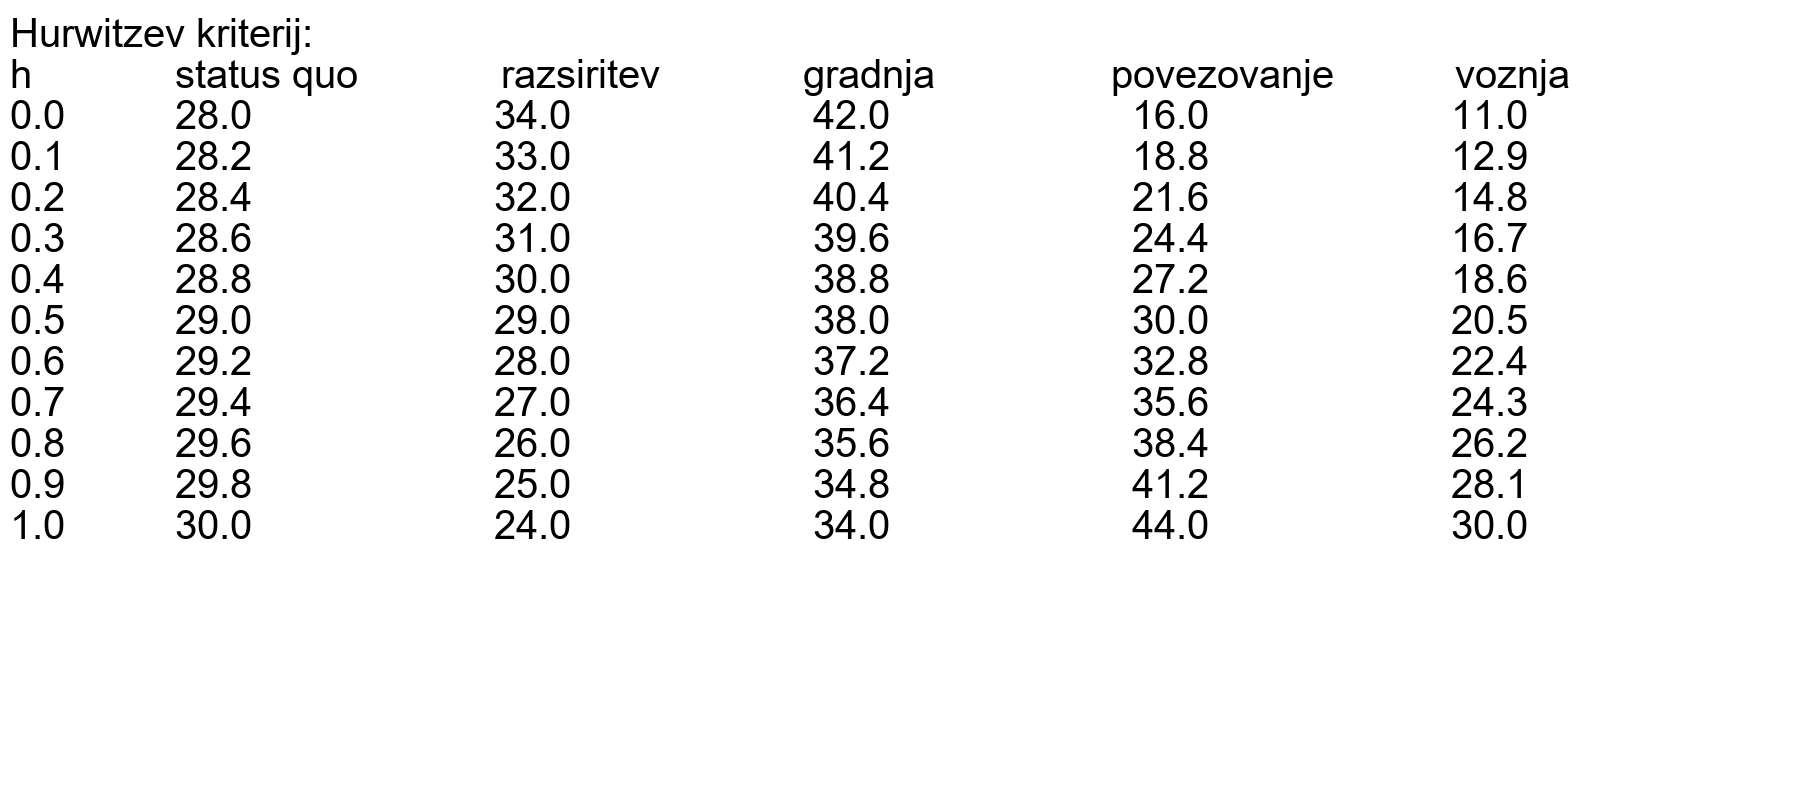
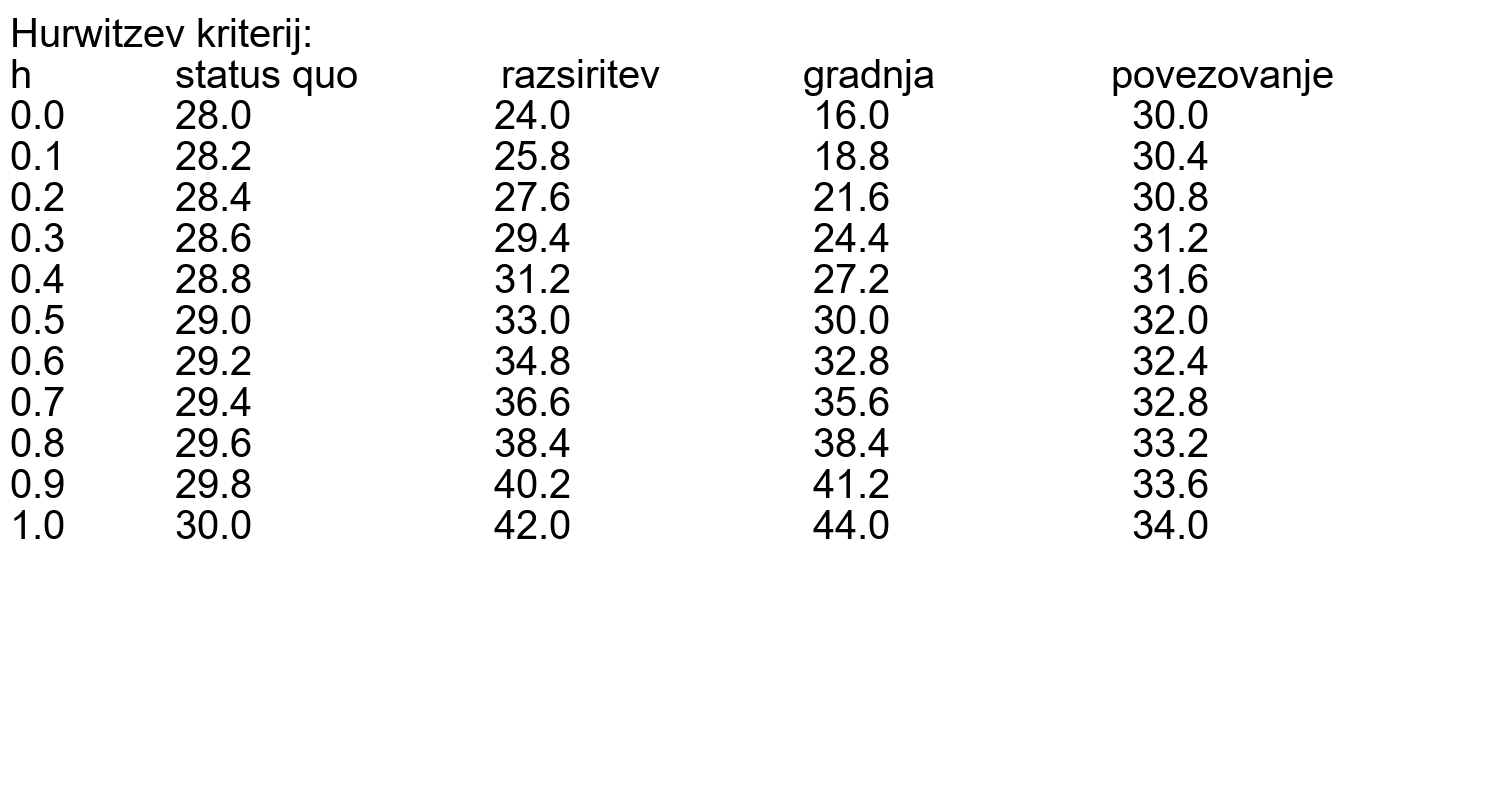
update

Changed region(s): [[0.276, 0.0625, 0.8893, 0.6875], [0.0, 0.0312, 0.2453, 0.6875]]

diff --git a/Main.py b/Main.py
@@ -12,7 +12,6 @@ def main():
     Negativ =[]
     PNGFile = "graf.png"
     PNGData = ""
-
     #Main
     IniFilePath = GetConfig()
     FilePath = GetFile(IniFilePath)
@@ -22,7 +21,6 @@ def main():
     CreatePNGAndSave(PNGFile, PNGData,len(Header))
     Output(FilePath,Header,Optimist(Pozitiv),Pesimist(Negativ),Laplace(Pozitiv,Negativ),Savage(Pozitiv,Negativ),Negativ,Pozitiv,PNGFile)
     
-    
 def CreatePNGAndSave(filename, text,lenght):
     fnt = ImageFont.truetype('arial.ttf', 40)
     image = Image.new(mode="RGB", size=((lenght*300),800), color="white")
@@ -31,8 +29,6 @@ def CreatePNGAndSave(filename, text,lenght):
     image.save(filename)
     print(f"Image '{filename}' saved successfully.")
     
-
-
 def Savage(Pozitivno,Negativno):
     SavagePozitiv = []
     SavageNegativ = []
@@ -56,7 +52,7 @@ def Laplace(Pozitivno,Negativno):
 def Optimist(List):#Izbere najvecjo stevilko
     return max(List)
 def Pesimist(List):
-    return min(List)
+    return max(List)
 
 def ReadCsvAndReturnValues(Header,path):
     FirstLine = []
@@ -73,7 +69,6 @@ def ReadCsvAndReturnValues(Header,path):
                 for row in reader:
                     
                     if LineCounter % 2 == 0:
-                        
                         FirstLine.append(int(row[string]))
                         LineCounter +=1
                     else:
@@ -116,8 +111,6 @@ def Output(FilePath,Header,Optimist,Pesimist,Laplace,Savage,Negativ,Pozitiv,PNGF
     print(f"Savage: {Savage}")
     HurwitzevKriterij(Header,Pozitiv,Negativ)
     print(f"Graf Hurwitzovega kriterija je bil shranjen v datoteko ('{PNGFile}').")
-
-
 
 def HurwitzevKriterij(Header,Pozitiv,Negativ):
     print("Hurwitzev kriterij:")
